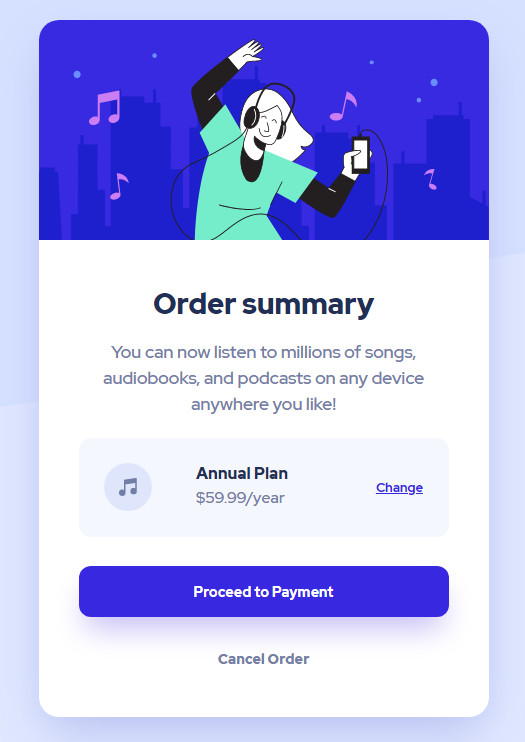
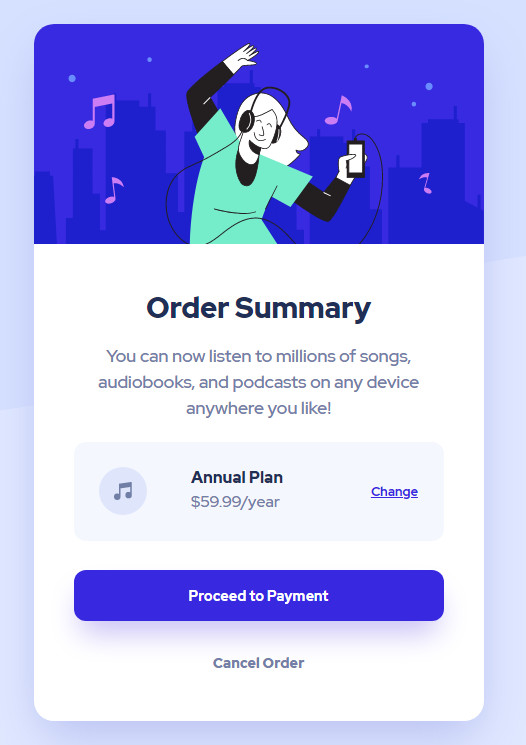
Small tweaks to HTML + updated preview

diff --git a/index.html b/index.html
@@ -8,12 +8,12 @@
 </head>
 <body>
     <main>
-        <img class="top-img" src="img/illustration-hero.svg" aria-hidden="true">
-        <div class="main-section">
-            <h1>Order summary</h1>
+        <img class="top-img" src="img/illustration-hero.svg" alt="" aria-hidden="true">
+        <section class="main-section">
+            <h1>Order Summary</h1>
             <p class="main-paragraph">You can now listen to millions of songs, audiobooks, and podcasts on any device anywhere you like!</p>
             <div class="plan-section">
-                <img src="img/icon-music.svg" aria-hidden="true">
+                <img src="img/icon-music.svg" alt="" aria-hidden="true">
                 <div class="plan-details">
                     <strong>Annual Plan</strong>
                     <p>$59.99/year</p>
@@ -22,7 +22,7 @@
             </div>
             <a class="button-proceed" href="#">Proceed to Payment</a>
             <a class="cancel" href="#">Cancel Order</a>
-        </div>
+        </section>
     </main>
 </body>
 </html>
